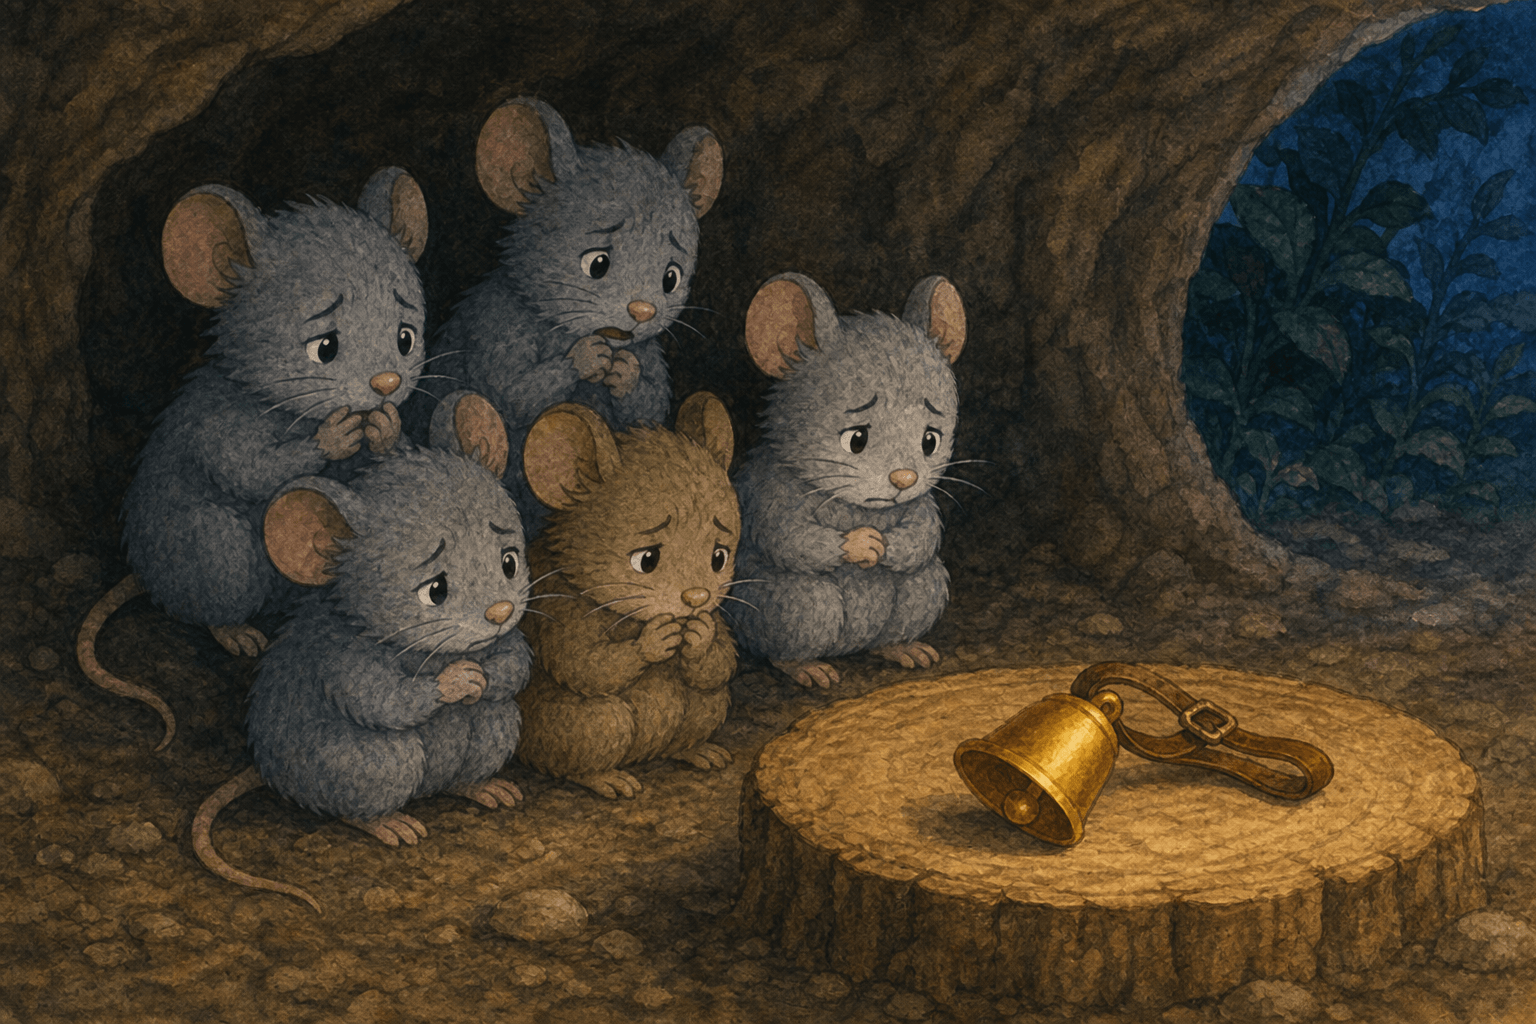
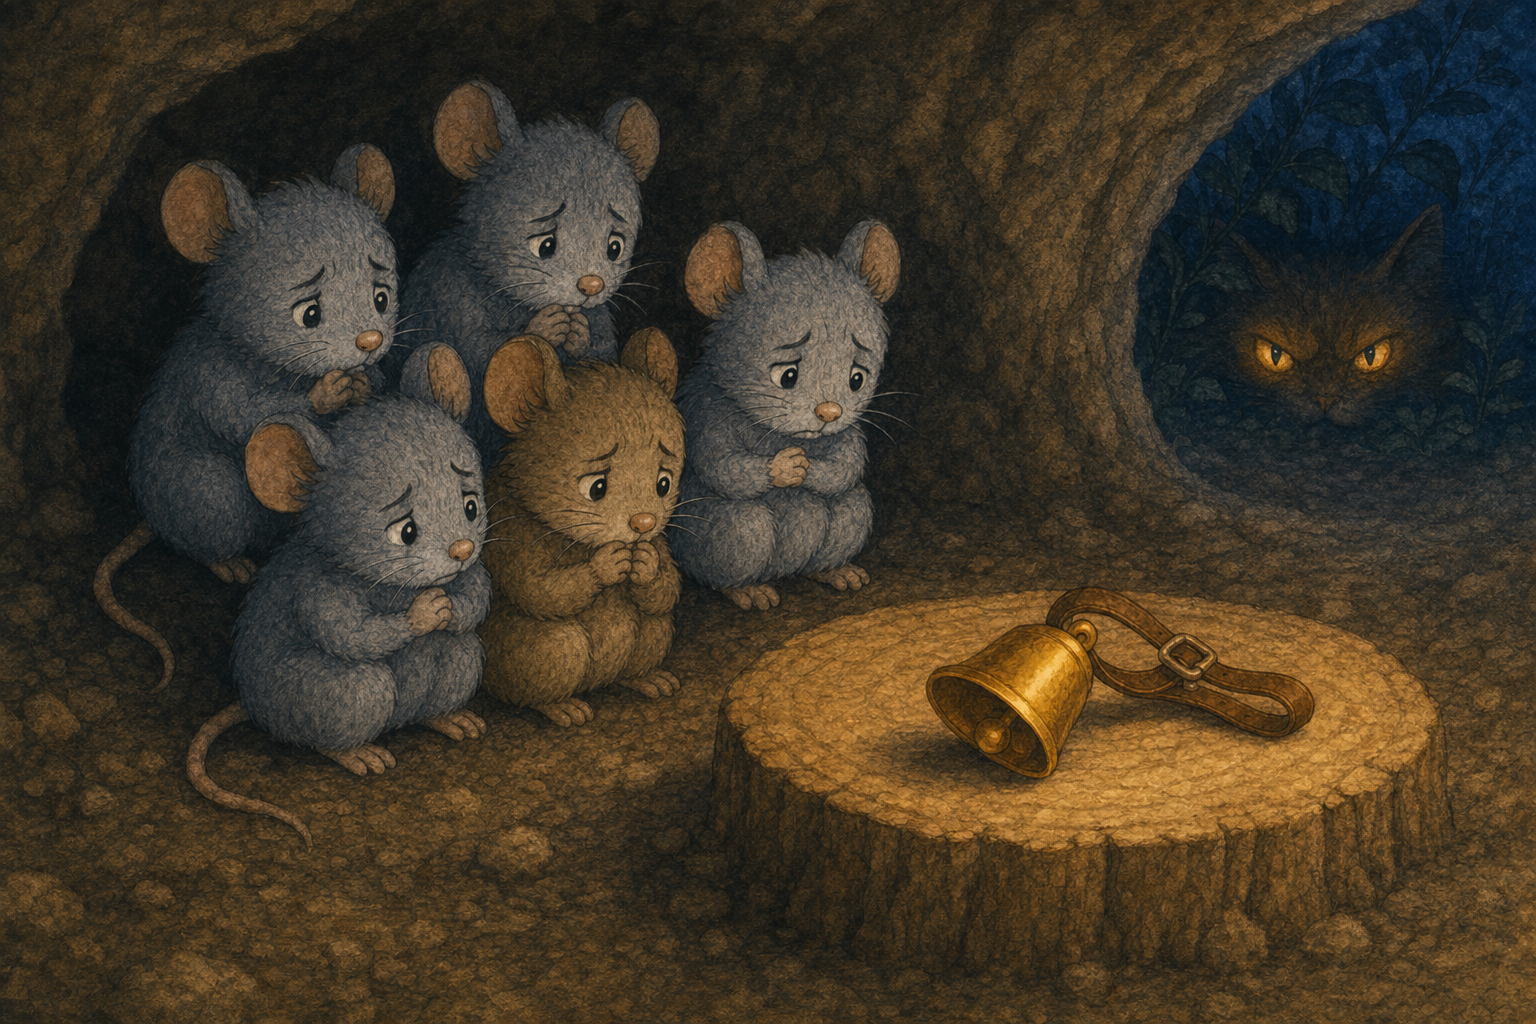
fix: regenerate cat-bell and crow proverb art
고양이 속담은 무서워서 방울을 못 다는 장면으로, 까마귀 속담은 배를 물지 않은 오해 상황으로 이미지를 교체한다.

diff --git a/src/data/packContentVersions.ts b/src/data/packContentVersions.ts
@@ -6,7 +6,7 @@ import { useCustomPicbookStore } from '../state/customPicbookStore'
  */
 export const PACK_CONTENT_VERSIONS: Record<string, string> = {
   'demo-separation-three-powers': '20',
-  'elementary-proverbs': '40',
+  'elementary-proverbs': '42',
   'tortoise-and-hare': '5',
 }
 
